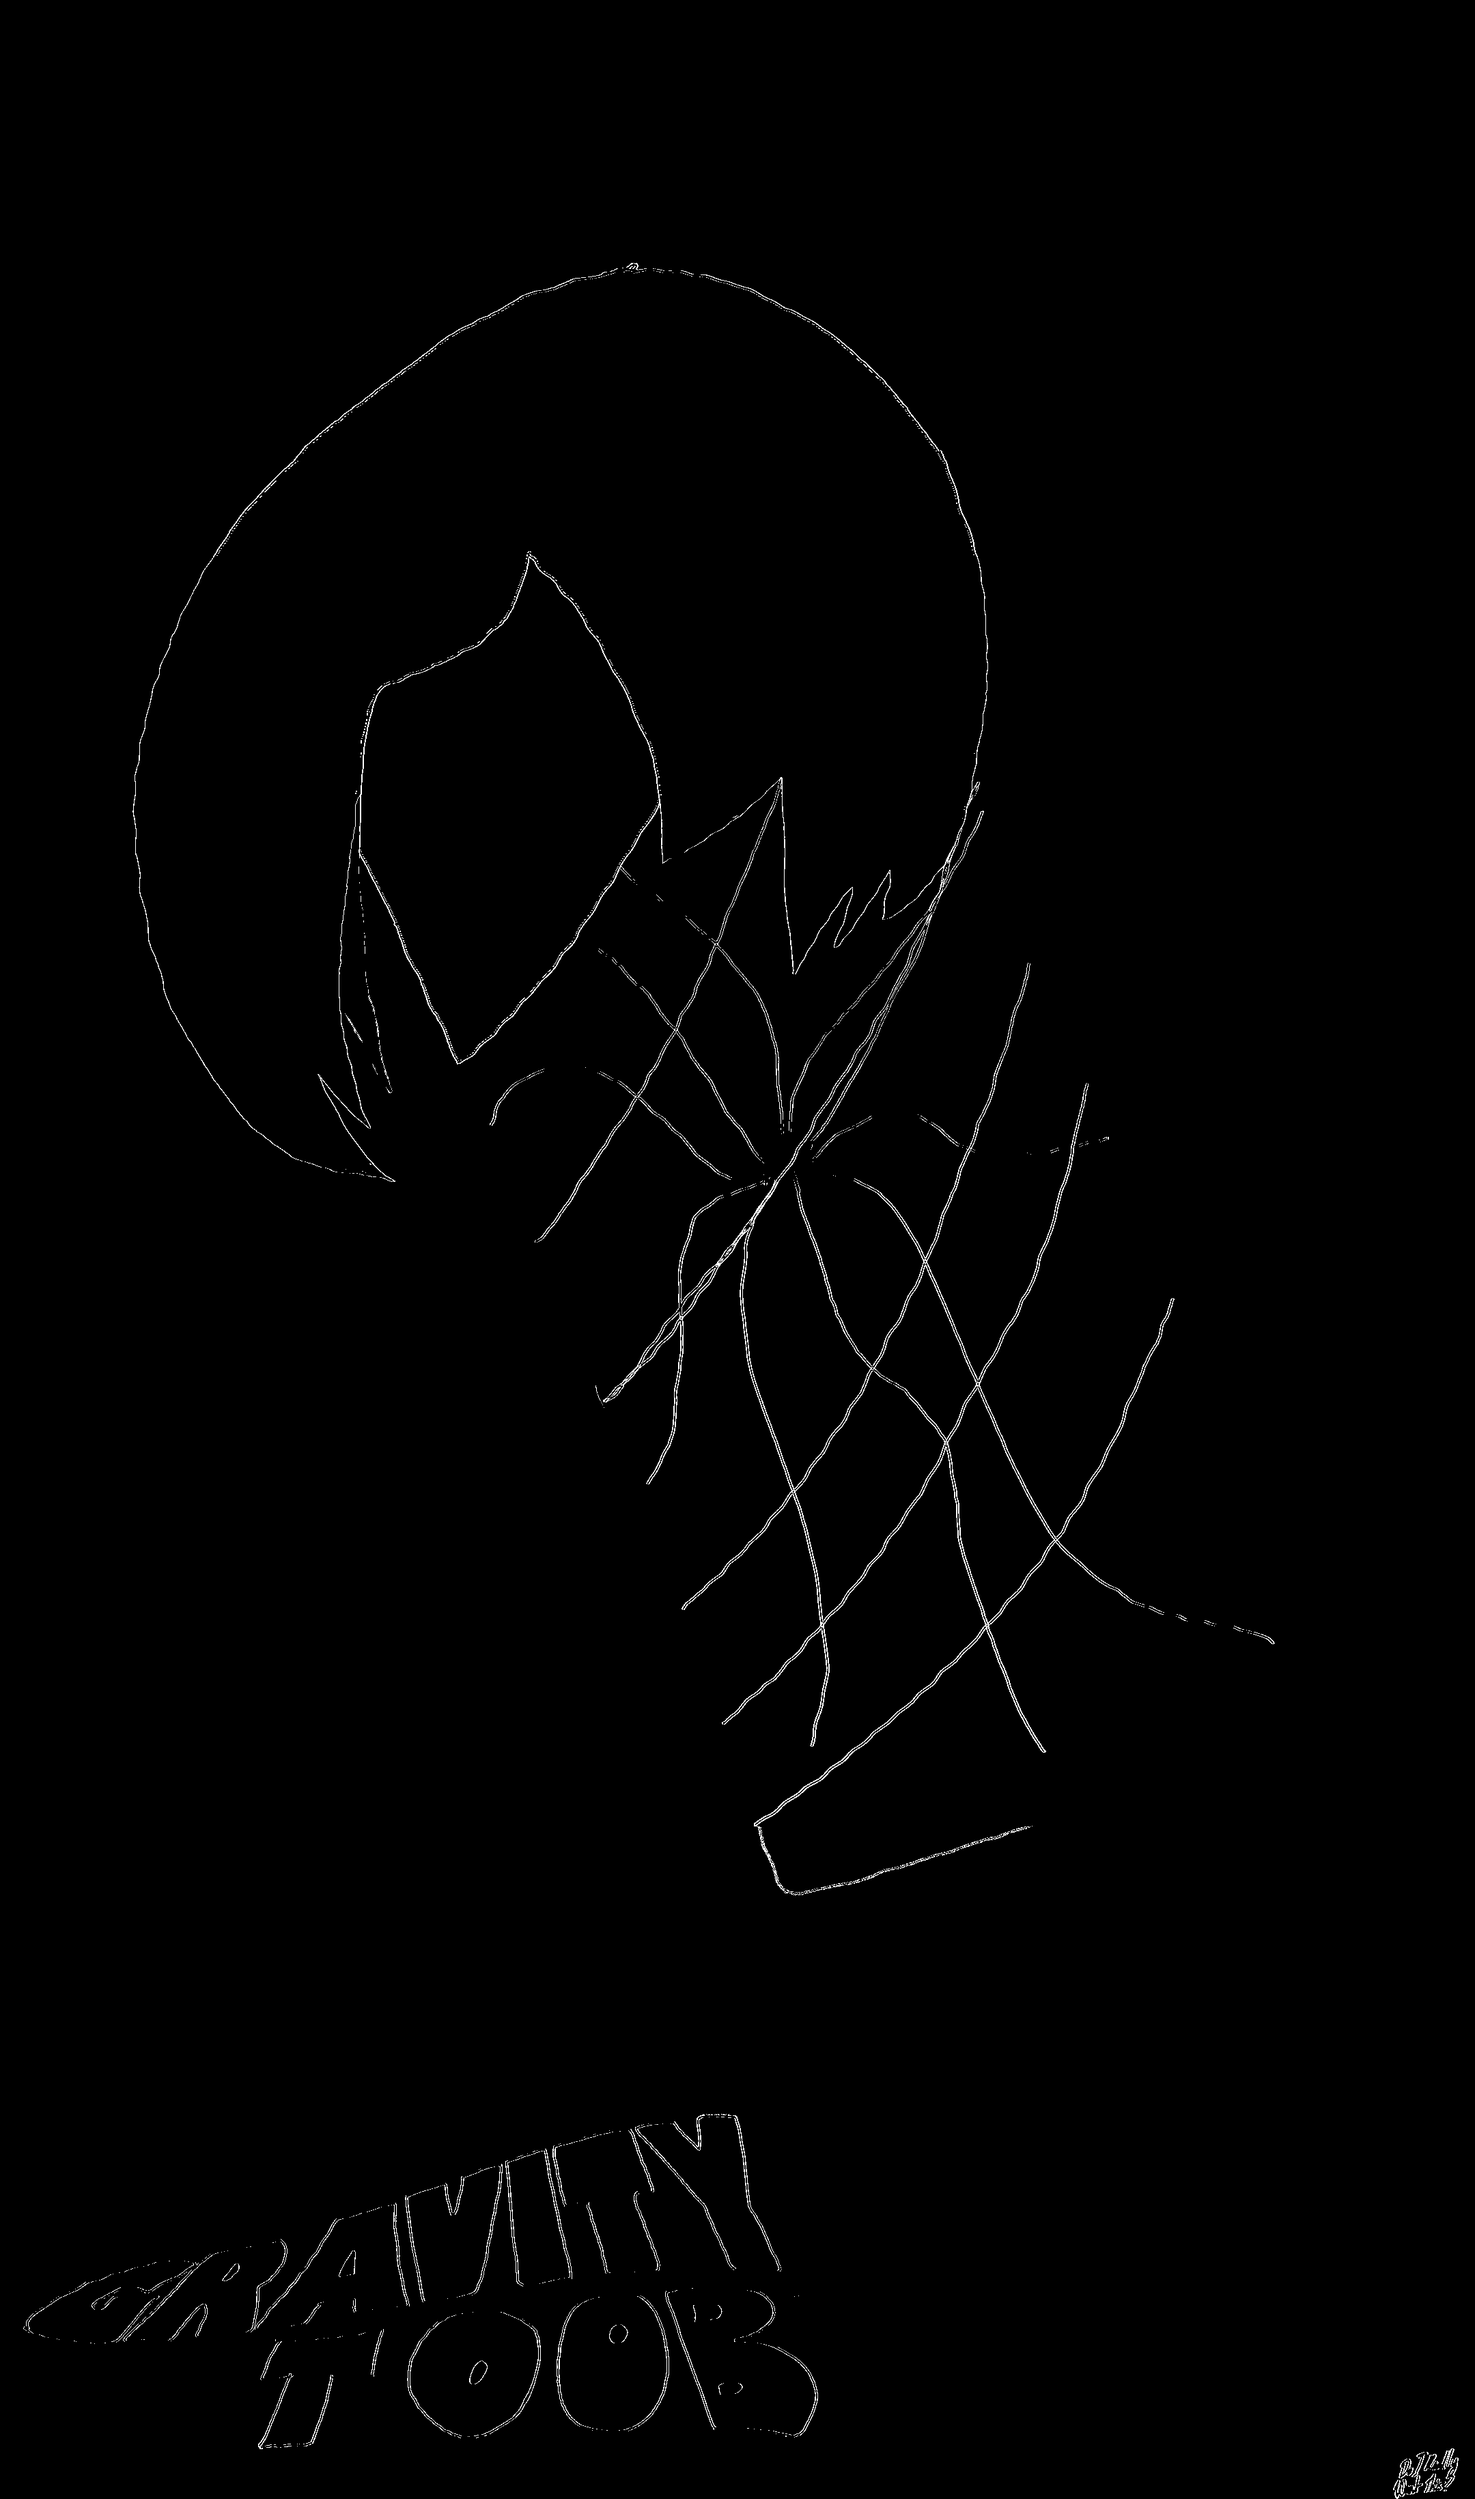
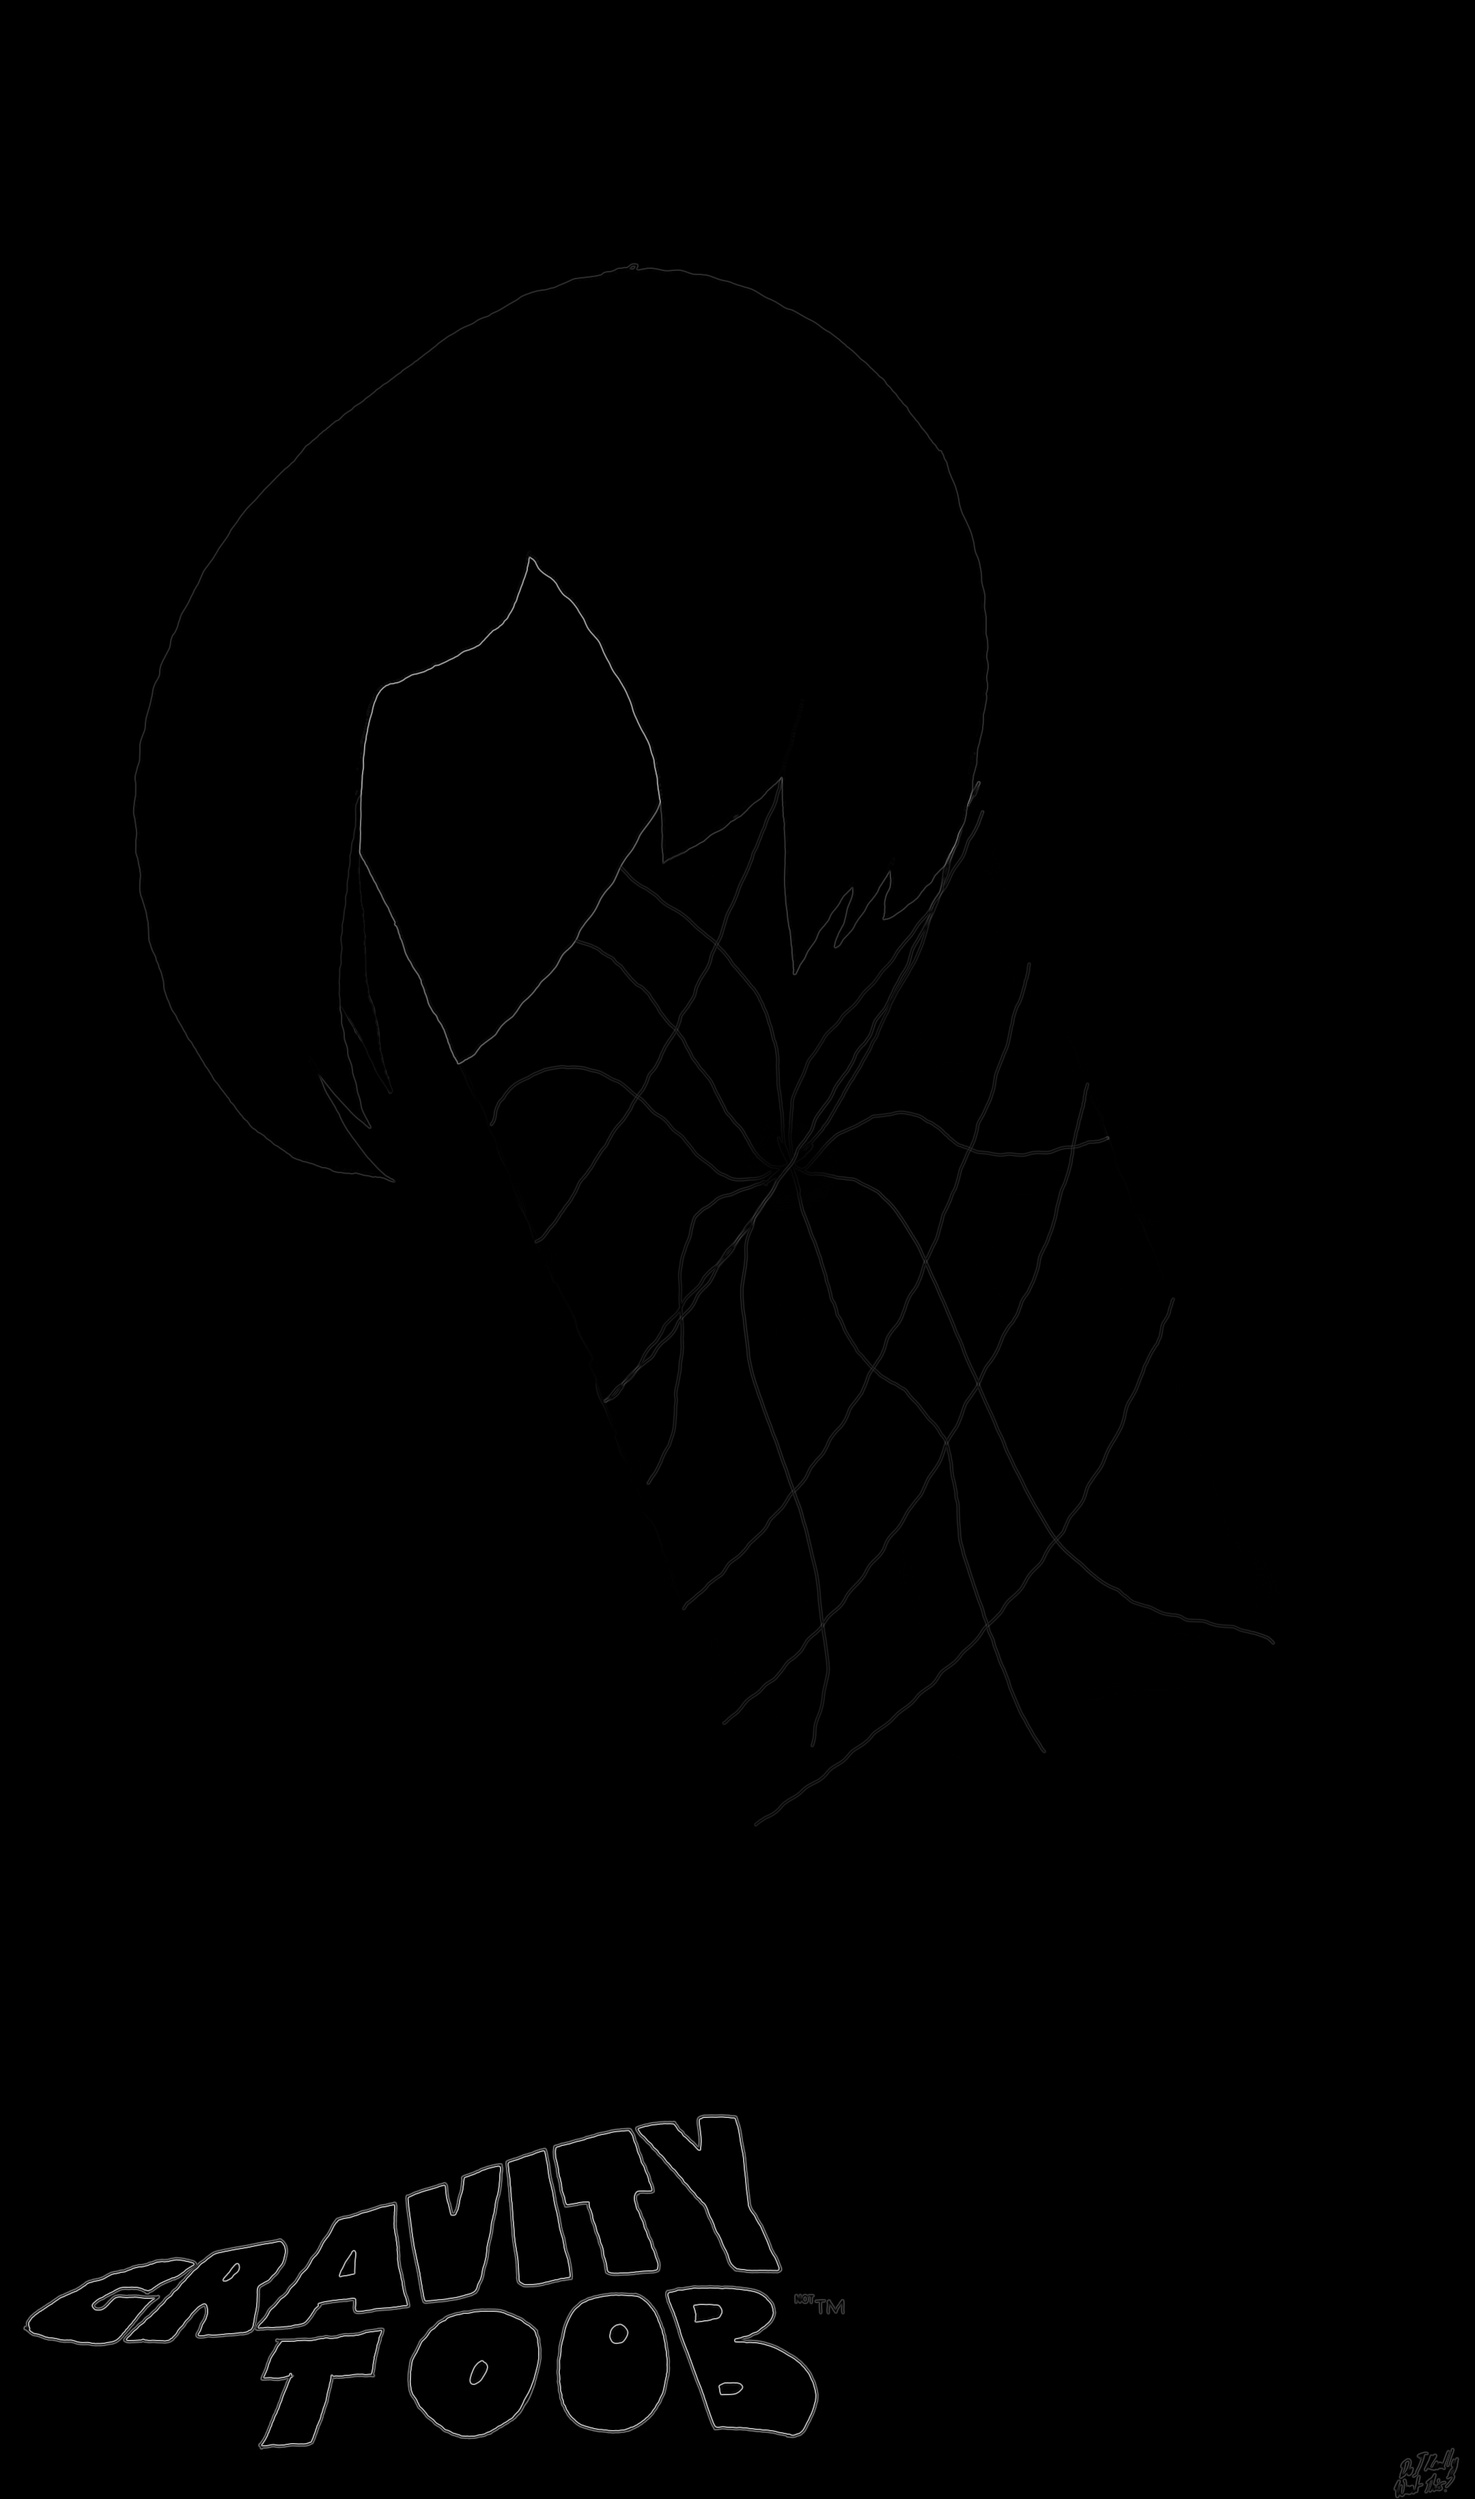
Updated algorithm to use sobel filter and am adding region labelling

diff --git a/transform.py b/transform.py
@@ -1,12 +1,15 @@
-from imageio import imread, imwrite
-from skimage import color
+import os
+import sys
+from multiprocessing import Pool
+from time import monotonic
+
 # from matplotlib.pyplot import imshow, axis
 import numpy as np
 import statistics as st
-import os
-from multiprocessing import Pool
-from time import monotonic
-    
+from imageio import imread, imwrite
+from skimage import color, feature, filters
+
+
 def detect_edges(image, sigma=None):
     edges = np.zeros(image.shape)
     for i, row in enumerate(image):
@@ -31,6 +34,14 @@ def highlight_points(vals, sigma=None):
             indices.append(i)
     return indices
 
+def decide_cutoff(row, threshold):
+    for i in range(len(row)):
+        row[i] = row[i] if row[i] > threshold else 0
+    return row
+
+def map_regions(image):
+    return ndimage.label(image)
+
 def do_all_tests():
     test_images = 'test_images/'
     image_paths = [test_images+path for path in os.listdir(test_images)]
@@ -44,18 +55,30 @@ def do_one(path):
     print("Starting ", path)
     im = imread(path)
     gray_im = color.rgb2gray(im)
+
     # outlined_im = detect_edges(gray_im, sigma=3.0)
-    outlined_im = detect_edges(gray_im) * 255
+    # outlined_im = detect_edges(gray_im) * 255
+    # outlined_im = feature.canny(gray_im) * 255
+    outlined_im = filters.sobel(gray_im)
     
+    mapped, num_regions = map_regions(outlined_im)
+
+    mapped = mapped
+
     output = path.split('/')[-1].split('.png')[0]
     output = 'output/'+output+'_output.png'
-    imwrite(output, outlined_im.astype('uint8'))
+    imwrite(output, region_mapped.astype('uint8'))
 
     print("Finished: ", path)
 
 if __name__ == "__main__":
     start = monotonic()
-    # do_all_tests()
-    do_one('test_images/'+'ricos_grappler.png')
+    args = sys.argv[1:]
+    if len(args) > 0:
+        for path in args:
+            do_one(path)
+    else:
+        # do_all_tests()
+        do_one('test_images/'+'journey.png')
     print("Finished All.")
     print("Elapsed Time ", (monotonic() - start)/60)
